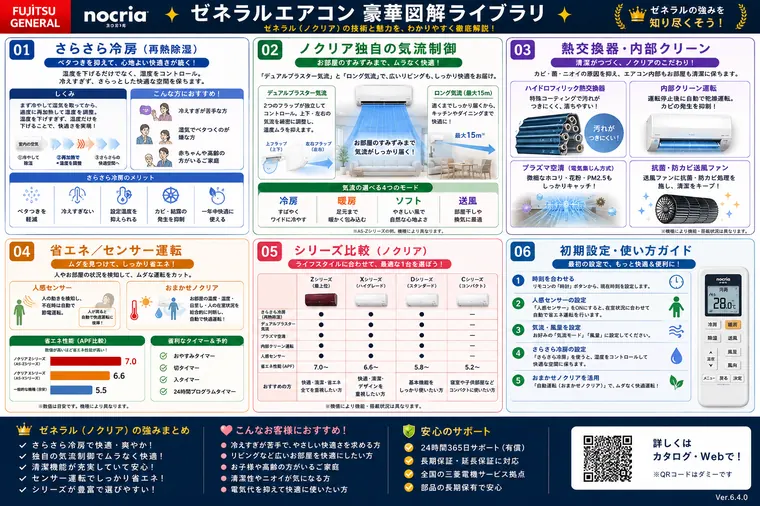
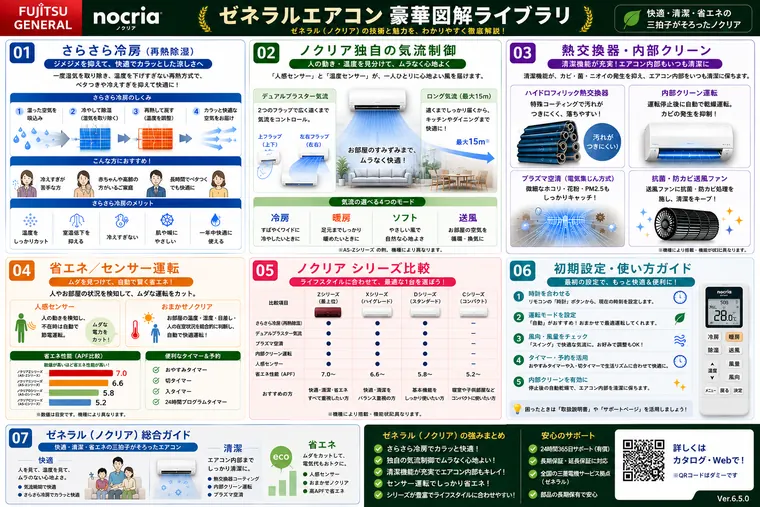
Add files via upload

diff --git a/index.html b/index.html
@@ -4,7 +4,7 @@
 <meta charset="utf-8">
 <meta name="viewport" content="width=device-width,initial-scale=1,viewport-fit=cover">
 <meta name="theme-color" content="#ffffff">
-<title>エアコン販買マスター Pro Ver.6.5.0 ゼネラル豪華図解追加版</title>
+<title>エアコン販買マスター Pro Ver.6.5.1 ゼネラル豪華図解完成版</title>
 <link rel="apple-touch-icon" sizes="180x180" href="apple-touch-icon.png?v=3890">
 <link rel="icon" type="image/png" sizes="32x32" href="favicon-32.png?v=3890">
 <style>
@@ -1294,7 +1294,7 @@ html,body{max-width:100%;overflow-x:hidden}
 
 
 <style id="v630-sharp-lux-final">
-/* Ver.6.5.0 ゼネラル豪華図解追加版：iPad/iPhone見切れ対策 */
+/* Ver.6.5.1 ゼネラル豪華図解完成版：iPad/iPhone見切れ対策 */
 #visualGrid .visual-card[data-cat="sharp"]{
   overflow:hidden!important;
   padding:10px!important;
@@ -1399,6 +1399,29 @@ html,body{max-width:100%;overflow-x:hidden}
 }
 </style>
 
+
+<style id="v651-general-final">
+#visualGrid .visual-card[data-cat="general"]{
+  min-height:0!important;height:auto!important;padding:8px!important;overflow:hidden!important;
+  border-radius:22px!important;background:linear-gradient(180deg,#fff,#f7fbf8)!important;
+  box-shadow:0 10px 24px rgba(20,90,60,.10)!important;
+}
+#visualGrid .visual-card[data-cat="general"] img{
+  display:block!important;width:100%!important;height:auto!important;min-height:0!important;max-height:none!important;
+  object-fit:contain!important;object-position:center top!important;margin:0!important;padding:0!important;
+  border-radius:16px!important;background:#fff!important;
+}
+#visualGrid .visual-card[data-cat="general"] .visual-card-body{
+  padding:12px 6px 6px!important;margin:0!important;border-top:0!important;
+}
+#visualGrid .visual-card[data-cat="general"] h3{margin:0 0 6px!important;}
+#visualGrid .visual-card[data-cat="general"] p{margin:0 0 8px!important;}
+@media(max-width:700px){
+ #visualGrid .visual-card[data-cat="general"]{padding:6px!important;border-radius:18px!important}
+ #visualGrid .visual-card[data-cat="general"] .visual-card-body{padding:10px 5px 5px!important}
+}
+</style>
+
 </head>
 <body>
 <div class="app">
@@ -1409,7 +1432,7 @@ html,body{max-width:100%;overflow-x:hidden}
     <div class="brand">
       <span class="brand-snow">❄</span>
       <span>エアコン販買マスター</span>
-      <small>Ver.6.5.0 ゼネラル豪華図解追加版</small>
+      <small>Ver.6.5.1 ゼネラル豪華図解完成版</small>
     </div>
     <button class="icon-button status-button" onclick="openMission()" aria-label="今日の目標">◎</button>
   </header>
@@ -3261,13 +3284,13 @@ const VISUAL_LIBRARY=[
  {category:"mitsubishi",file:"mitsubishi-puremist-illustrated.png?v=640",title:"ピュアミスト",desc:"ナノレベルの微細ミストによる空気ケアを豪華図解。"},
  {category:"mitsubishi",file:"mitsubishi-series-illustrated.png?v=640",title:"三菱シリーズ比較",desc:"FZ・Z・X・R・Sの違いと選び方を大型比較表で整理。"},
  {category:"mitsubishi",file:"mitsubishi-settings-illustrated.png?v=640",title:"三菱 初期設定",desc:"最初に確認したい設定を5ステップで見やすく整理。"},
- {category:"general",file:"general-lux-overview.png?v=650",title:"ゼネラル 豪華図解・総合ガイド",desc:"さらさら冷房・気流・清潔・省エネ・シリーズ比較を一気に確認。"},
- {category:"general",file:"general-sarasara.png?v=650",title:"さらさら冷房",desc:"再熱除湿で冷えすぎを抑えながら、湿度をしっかりコントロール。"},
- {category:"general",file:"general-airflow.png?v=650",title:"ノクリア独自の気流制御",desc:"広いお部屋へムラを抑えて届ける気流の考え方を図解。"},
- {category:"general",file:"general-clean.png?v=650",title:"熱交換器・内部クリーン",desc:"熱交換器や内部の清潔維持をサポートする機能を整理。"},
- {category:"general",file:"general-eco.png?v=650",title:"省エネ・センサー運転",desc:"人やお部屋の状態を見ながらムダを抑える運転を図解。"},
- {category:"general",file:"general-series.png?v=650",title:"ノクリア シリーズ比較",desc:"快適・清潔・省エネ・設置性からシリーズを比較。"},
- {category:"general",file:"general-settings.png?v=650",title:"ゼネラル 初期設定",desc:"時刻・運転モード・風向・タイマー・内部クリーンを整理。"},
+ {category:"general",file:"general-lux-overview.png?v=651",title:"ゼネラル 豪華図解・総合ガイド",desc:"さらさら冷房・気流・清潔・省エネ・シリーズ比較を一気に確認。"},
+ {category:"general",file:"general-sarasara.png?v=651",title:"さらさら冷房",desc:"再熱除湿で冷えすぎを抑えながら、湿度をしっかりコントロール。"},
+ {category:"general",file:"general-airflow.png?v=651",title:"ノクリア独自の気流制御",desc:"広いお部屋へムラを抑えて届ける気流の考え方を図解。"},
+ {category:"general",file:"general-clean.png?v=651",title:"熱交換器・内部クリーン",desc:"熱交換器や内部の清潔維持をサポートする機能を整理。"},
+ {category:"general",file:"general-eco.png?v=651",title:"省エネ・センサー運転",desc:"人やお部屋の状態を見ながらムダを抑える運転を図解。"},
+ {category:"general",file:"general-series.png?v=651",title:"ノクリア シリーズ比較",desc:"快適・清潔・省エネ・設置性からシリーズを比較。"},
+ {category:"general",file:"general-settings.png?v=651",title:"ゼネラル 初期設定",desc:"時刻・運転モード・風向・タイマー・内部クリーンを整理。"},
  {category:"construction",file:"construction-voltage.png",title:"100V・200V",desc:"コンセント・電圧・分電盤をセットで確認。"},
  {category:"construction",file:"construction-dedicated.png",title:"専用回路",desc:"分電盤からエアコンまで他機器と共用しない回路。"},
  {category:"construction",file:"construction-board.png",title:"分電盤",desc:"主幹・分岐・単相2線/3線・空き回路・専用回路を総合確認。"},
@@ -3322,7 +3345,7 @@ const VISUAL_GUIDE={
 };
 
 
-const VISUAL_OPTIMIZED_VERSION="650";
+const VISUAL_OPTIMIZED_VERSION="651";
 function splitAsset(src){const parts=src.split("?");return {path:parts[0],query:parts[1]||""};}
 function visualThumbSrc(src){const a=splitAsset(src);const dot=a.path.lastIndexOf(".");if(dot<0) return src;return a.path.slice(0,dot)+"-thumb.webp?v="+VISUAL_OPTIMIZED_VERSION;}
 function visualViewSrc(src){const a=splitAsset(src);const dot=a.path.lastIndexOf(".");if(dot<0) return src;return a.path.slice(0,dot)+"-view.webp?v="+VISUAL_OPTIMIZED_VERSION;}

diff --git a/README.md b/README.md
@@ -1,2 +1,2 @@
-エアコン販買マスター Pro Ver.6.5.0 ゼネラル豪華図解追加版
-ゼネラル専用タブと豪華図解7枚を追加。図解ライブラリ高速表示・余白対策を維持。
+エアコン販買マスター Pro Ver.6.5.1 ゼネラル豪華図解完成版
+ゼネラル豪華図解7枚・図解ライブラリ高速表示・余白最終調整。
